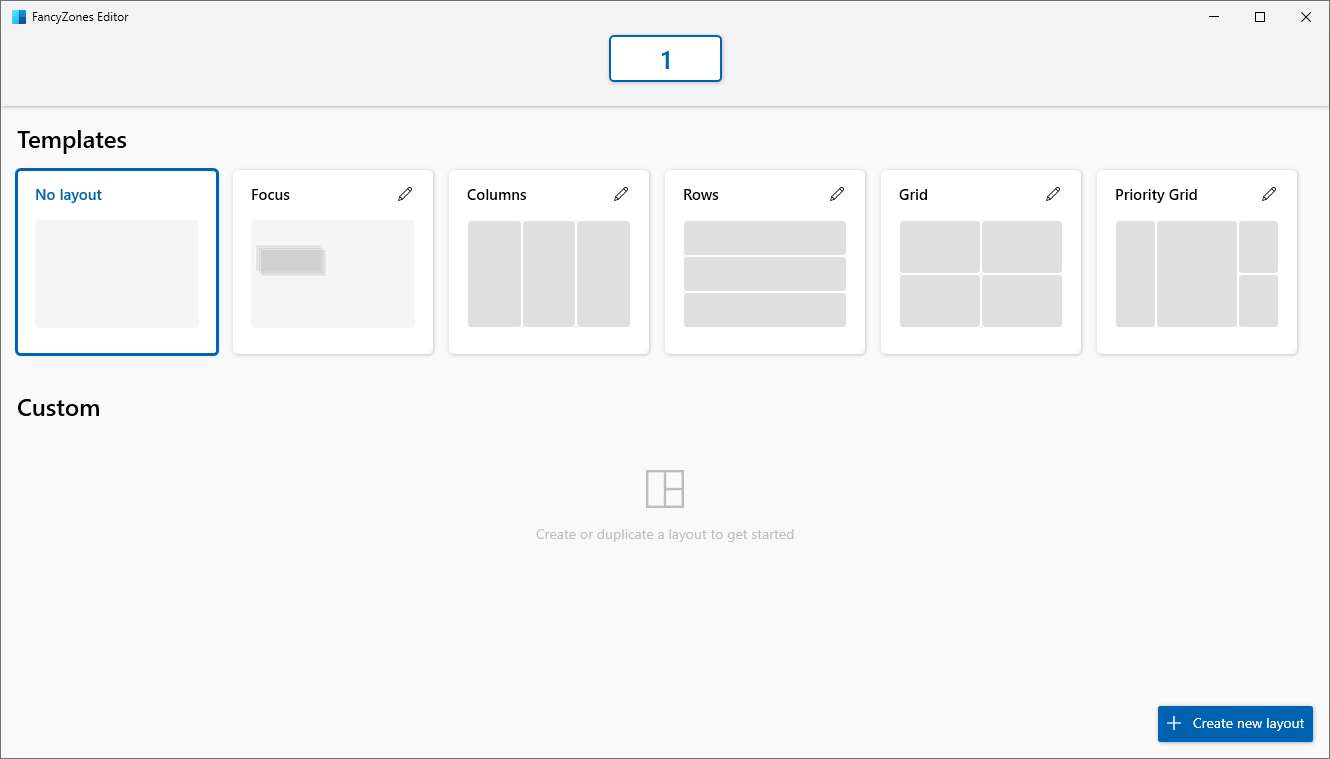
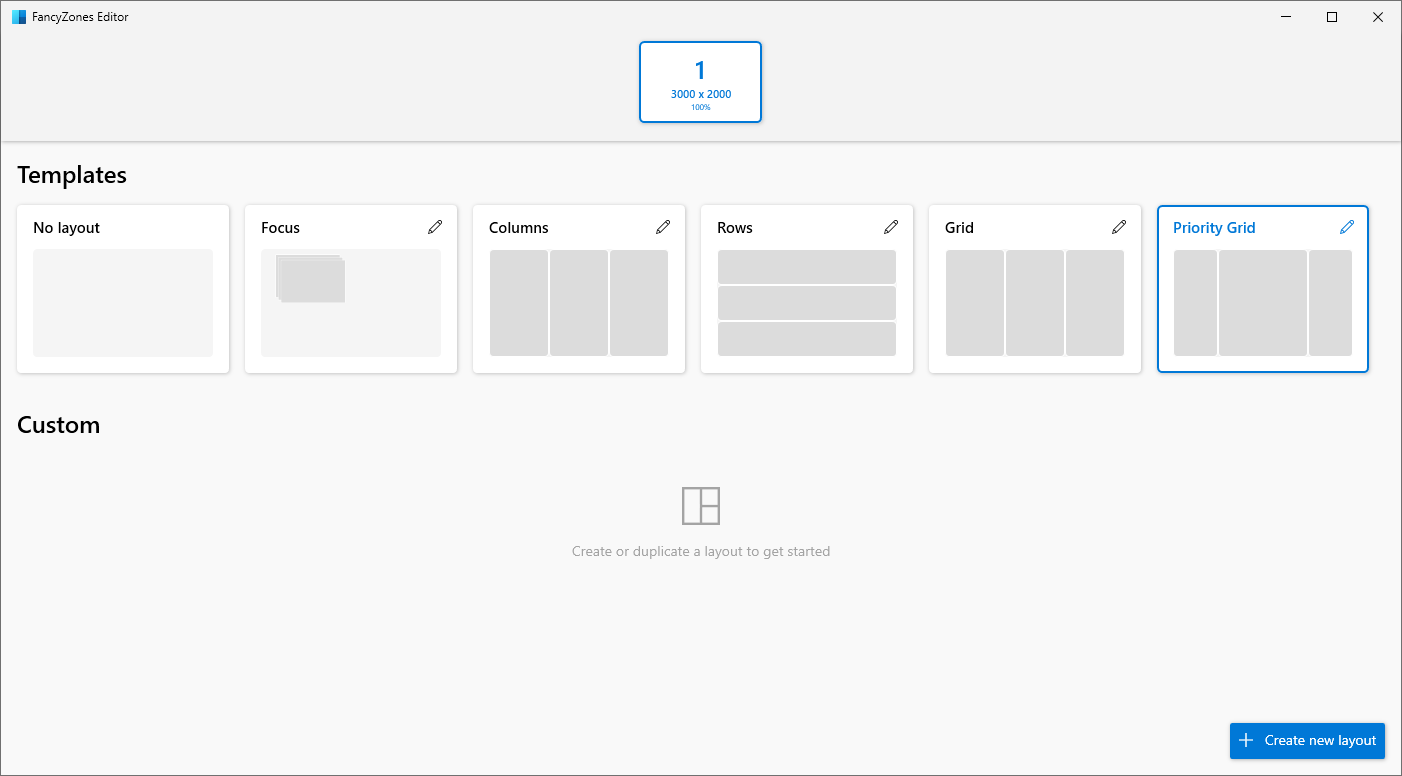
fz docs update

diff --git a/hub/powertoys/fancyzones.md b/hub/powertoys/fancyzones.md
@@ -13,13 +13,17 @@ FancyZones is a window manager utility for arranging and snapping windows into e
 
 ## Snapping to a single zone with the mouse
 
-First, drag the window. By default, you will also need to press and hold the <kbd>Shift</kbd> key (This setting can be disabled via Settings). You'll see the zones appear. As you move your mouse, hovering over a zone will highlight that zone.
+First, drag the window. By default, you will also need to press and hold the <kbd>Shift</kbd> key (This setting can be disabled via Settings). You'll see the zones appear. As you move your mouse, hovering over a zone will highlight that zone. 
+
+You can also trigger zone selection mode by clicking non-primary mouse button if the "Use non-primary mouse button to toggle zone activation" setting enabled. 
+
+If both "Hold Shift key to activate zones while dragging" and "Use non-primary mouse button to toggle zone activation" are disabled, zones will appear right after you start dragging the window.
 
 ![FancyZones in action screenshot.](../images/pt-fancy-zones2.png)
 
 ## Snapping to a single zone with keyboard
 
-You can use <kbd>Win</kbd>+<kbd>[arrows]</kbd> to expand the window to multiple zones. However, you must first set **Override Windows Snap** to enabled in the FancyZones settings.
+You can use <kbd>Win</kbd>+<kbd>[arrows]</kbd> to snap window to a zone. Next zone to snap can be chosen either by its index or by relative position. However, you must first set **Override Windows Snap** to enabled in the FancyZones settings.
 
 ![Settings for Snapping to Multiple Zones via Keyboard.](../images/pt-window-snap-multiple-zones-w-keyboard-settings.png)
 
@@ -52,7 +56,10 @@ When two or more windows are snapped in the same zone, you can cycle between the
 | Shortcut | Action |
 | --- | --- |
 | <kbd>⊞ Win</kbd>+<kbd>Shift</kbd>+<kbd>\`</kbd> | Launches the editor (this shortcut can be changed in the Settings window) |
-| <kbd>⊞ Win</kbd>+<kbd>left/right</kbd> | Move focused window between zones (only if **Override Windows Snap hotkeys** setting is turned on, in that case only the <kbd>⊞ Win</kbd>+<kbd>←</kbd> and <kbd>⊞ Win</kbd>+<kbd>→</kbd> are overridden, while the <kbd>⊞ Win</kbd>+<kbd>↑</kbd> and <kbd>⊞ Win</kbd>+<kbd>↓</kbd> keep working as usual) |
+| <kbd>⊞ Win</kbd>+<kbd>left/right</kbd> | Move focused window between zones (only if **Override Windows Snap hotkeys** setting is turned on and **Zone index** is chosen) in that case only the <kbd>⊞ Win</kbd>+<kbd>←</kbd> and <kbd>⊞ Win</kbd>+<kbd>→</kbd> are overridden, while the <kbd>⊞ Win</kbd>+<kbd>↑</kbd> and <kbd>⊞ Win</kbd>+<kbd>↓</kbd> keep working as usual) |
+| <kbd>⊞ Win</kbd>+<kbd>left/right/up/down</kbd> | Move focused window between zones (only if **Override Windows Snap hotkeys** setting is turned on and **Relative position** is chosen) in that case all the <kbd>⊞ Win</kbd>+<kbd>←</kbd>, <kbd>⊞ Win</kbd>+<kbd>→</kbd>, <kbd>⊞ Win</kbd>+<kbd>↑</kbd> and <kbd>⊞ Win</kbd>+<kbd>↓</kbd> are overridden) |
+| <kbd>Win</kbd>+<kbd>PgUp/PgDn</kbd> | Cycle between snapped to the same zone windows |
+| <kbd>Win</kbd>+<kbd>Ctrl</kbd>+<kbd>Alt</kbd>+<kbd>[number]</kbd> | Quickly apply custom layout (you need to assign number to the custom layout in the editor) | 
 
 FancyZones doesn't override the Windows <kbd>⊞ Win</kbd>+<kbd>Shift</kbd>+<kbd>arrow</kbd> to quickly move a window to an adjacent monitor.
 
@@ -81,13 +88,15 @@ When first launched, the zones editor presents a list of layouts that can be adj
 
 If multiple displays are in use, the editor will detect the available monitors and display them for you to choose between. The chosen monitor will then be the target of the selected layout.
 
-![FancyZones Picker Multiple Monitors.](../images/pt-fancyzones-multimon.png)
+![FancyZones Picker Multiple Monitors.](../images/pt-fancyzones-multimon.png) //TODO
 
 ### Space around zones
 
 The **Show space around zones** setting enables you to determine what sort of margin will surround each FancyZone window. The **Space around zones** field enables you to set a custom value for the width of the margin. With the Zones Editor open, change the **Show space around zones** after changing the values to see the new value applied.
 
 The **Distance to highlight adjacent zones** enables you to set a custom value for the amount of space between zones until they snap together, or before both are highlighted enabling them to merge together.
+
+The **Default layout for horizontal monitor orientation** and **Default layout for vertical monitor orientation** flags allow you to choose which layout will be set as a default when monitor configuration is changed in the system (e.g. new monitor was added).
 
 ![FancyZones space around zones screenshot.](../images/pt-fancyzones-spacearound.png)
 
@@ -97,15 +106,22 @@ The zones editor supports creating custom layouts. Select the <kbd>+ Create new 
 
 There are two ways to create custom zone layouts: **Grid** layout and **Canvas** layout.
 
-The **Grid** model starts with a three column grid and allows zones to be created by splitting and merging zones, resizing the gutter between zones as desired. This is a relative layout and will resize with different screen sizes.
+The **Grid** model starts with a three column grid and allows zones to be created by splitting and merging zones, resizing the gutter between zones as desired. This is a relative layout and will resize with different screen sizes. You can edit layout using mouse or using keyboard.
 
+**Mouse**
 - To divide a zone: click your mouse. To rotate the divider: hold down the <kbd>Shift</kbd> key.
-- To move a divider: click on the thumb and drag.
+- To move a divider: click on the thumb and drag or select the thumb by focusing layout.
 - To merge/delete zones: select a zone and hold the left mouse button and drag the mouse until multiple zones are selected, release the button and a popup menu will show up. Click "Merge" and they will become one big zone. This is how a zone would be deleted, by merging it into another zone.
+
+**Keyboard**
+- First, focus the layout by pressing <kbd>Control</kbd>+<kbd>Tab</kbd>. Now you can edit it. All zones and resizers can be focused by pressing <kbd>Tab</kbd> button. 
+- To divide a zone: focus the zone you want to divide and press <kbd>S</kbd> or <kbd>Shift</kbd>+<kbd>S</kbd> to divide it.
+- To move a divider: focus the divider and press <kbd>[arrows]</kbd> to move it.
+- To merge/delete zones: focus the divider between zones and press <kbd>Delete</kbd>. All zones adjascent to deleted divider will be merged into one zone.
 
 ![FancyZones Table Editor Mode.](../images/pt-fancyzones-grideditor.png)
 
-The **Canvas** model starts with a blank layout and supports adding zones that can be dragged and resized similar to windows. Canvas layouts are directly tied to DPI and resolution of the monitor.
+The **Canvas** model starts with one zone and supports adding zones that can be dragged and resized similar to windows.
 
 Canvas layout also has keyboard support for zone editing. Use the <kbd>arrow</kbd> keys (up, down, left, right) to move a zone by 10 pixels, or <kbd>Ctrl</kbd>+<kbd>arrow</kbd> to move a zone by 1 pixel. Use the <kbd>Shift</kbd>+<kbd>arrow</kbd> keys to resize a zone by 10 pixels (5 per edge), or <kbd>Ctrl</kbd>+<kbd>Shift</kbd>+<kbd>arrow</kbd> to resize a zone by 2 pixels (1 per edge). To switch between the editor and dialog, press the <kbd>Ctrl</kbd>+<kbd>Tab</kbd> keys.
 
@@ -133,22 +149,27 @@ In the demo below, we start with a default template applied to the screen and tw
 | Show zones on all monitors while dragging a window | By default, FancyZones shows only the zones available on the current monitor. (This feature may have a performance impact when checked) |
 | Allow zones to span across monitors (all monitors must have the same DPI scaling) | Allows to treat all connected monitors as one large screen. To work correctly, it requires all monitors to have the same DPI scaling factor. (There might be unexpected effects when using monitors in different orientations) |
 | When multiple zones overlap [...] | Choose how to deal with overlapping zones. |
-| Zone appearance | Select colors for the layouts. |
-| Zone highlight color | The color of a zone when it is the active drop target during the dragging of a window. |
-| Zone inactive color | The color of zones when they are not an active drop during the dragging of a window. |
-| Zone border color | The color of the border of active and inactive zones. |
-| Zone opacity (%) | The percentage of opacity of active and inactive zones. (default: 50%) |
+| Zone appearance [...] | Select colors for the layouts. You can choose system or custom colors |
+| Show zone number | Should number of the zone be visible when layout is shown |
+| Opacity (%) | The percentage of opacity of active and inactive zones. (default: 50%) |
+| Highlight color | The color of a zone when it is the active drop target during the dragging of a window. |
+| Inactive color | The color of zones when they are not an active drop during the dragging of a window. |
+| Border color | The color of the border of active and inactive zones. |
+| Number color | The color of the number of the zone |
 | Keep windows in their zones when the screen resolution changes | FancyZones will resize and reposition windows into the zones they were previously in after a screen resolution change. |
 | During zone layout changes, windows assigned to a zone will match new size/position | FancyZones will resize and position windows into the new zone layout by maintaining the previous zone number location of each window. |
 | Move newly created windows to the last known zone | Automatically move a newly opened window into the last zone location that application was in. |
 | Move newly created windows to the current active monitor [experimental] | When this option is checked, and **Move newly created windows to the last known zone** is unchecked or the application doesn't have a last known zone, it keeps the application on the current active monitor. |
 | Restore the original size of windows when unsnapping | Unsnapping a window will restore its size as before it was snapped. |
 | Make dragged window transparent | When the zones are activated, the window being dragged is made transparent to improve the zones visibility. |
-| Allow popup windows snapping | This setting can affect all popup windows including notifications. |
-| Allow child windows snapping | |
+| Allow popup windows snapping | Popup windows coudn't be snapped by default. However, this could be the reason why some windows doesn't trigger FancyZones when dragging. This setting affects all popup windows including notifications. |
+| Allow child windows snapping | Child windows coudn't be snapped by default. However, this could be the reason why some windows doesn't trigger FancyZones when dragging. |
 | Disable round corners when window is snapped | Only for Windows 11. |
-| Override Windows Snap hotkeys (Win + arrow) to move between zones | When this option is checked and FancyZones is running, it overrides two Windows Snap keys: <kbd>⊞ Win</kbd>+<kbd>left</kbd> and <kbd>⊞ Win</kbd>+<kbd>right</kbd>. |
-| Move windows based on their position | Allows to use <kbd>⊞ Win</kbd>+<kbd>arrows</kbd> to snap a window based on its position relatively to the zone layout. |
+| Switch between windows in the current zone | Allows cycling activation between windows in the same zone. | 
+| Next window | To change the default hotkey, click on the textbox and then press the desired key combination on your keyboard. |
+| Previous window | To change the default hotkey, click on the textbox and then press the desired key combination on your keyboard. |
+| Override Windows Snap hotkeys (Win + arrow) to move between zones | When this option is checked and FancyZones is running, it overrides Windows Snap keys: <kbd>⊞ Win</kbd>+<kbd>left</kbd>, <kbd>⊞ Win</kbd>+<kbd>right</kbd>, <kbd>⊞ Win</kbd>+<kbd>up</kbd>, and <kbd>⊞ Win</kbd>+<kbd>down</kbd>. |
+| Move windows based on [...] | How the next zone will be chosen. **Zone index** allows to use <kbd>⊞ Win</kbd>+<kbd>left</kbd> and <kbd>⊞ Win</kbd>+<kbd>right</kbd> to snap a window based on its index. <kbd>⊞ Win</kbd>+<kbd>up</kbd>, <kbd>⊞ Win</kbd>+<kbd>down</kbd> are not overridden. <br/>**Relative position** overwrites all <kbd>⊞ Win</kbd>+<kbd>left</kbd>, <kbd>⊞ Win</kbd>+<kbd>right</kbd>,<kbd>⊞ Win</kbd>+<kbd>up</kbd>, and <kbd>⊞ Win</kbd>+<kbd>down</kbd> and chooses zone to snap relatively to the zone layout |
 | Move windows between zones across all monitors | Unchecked: snapping with <kbd>⊞ Win</kbd>+<kbd>arrow</kbd> cycles the window through the zones on the current monitor.<br/>Checked: it cycles the window through all the zones on all monitors. |
 | Enable quick layout switch | Enables hotkeys to quickly changes layouts - see individual layout settings. |
 | Flash zones when switching layout | The zones will flash when a layout is selected via the shortcut. |
